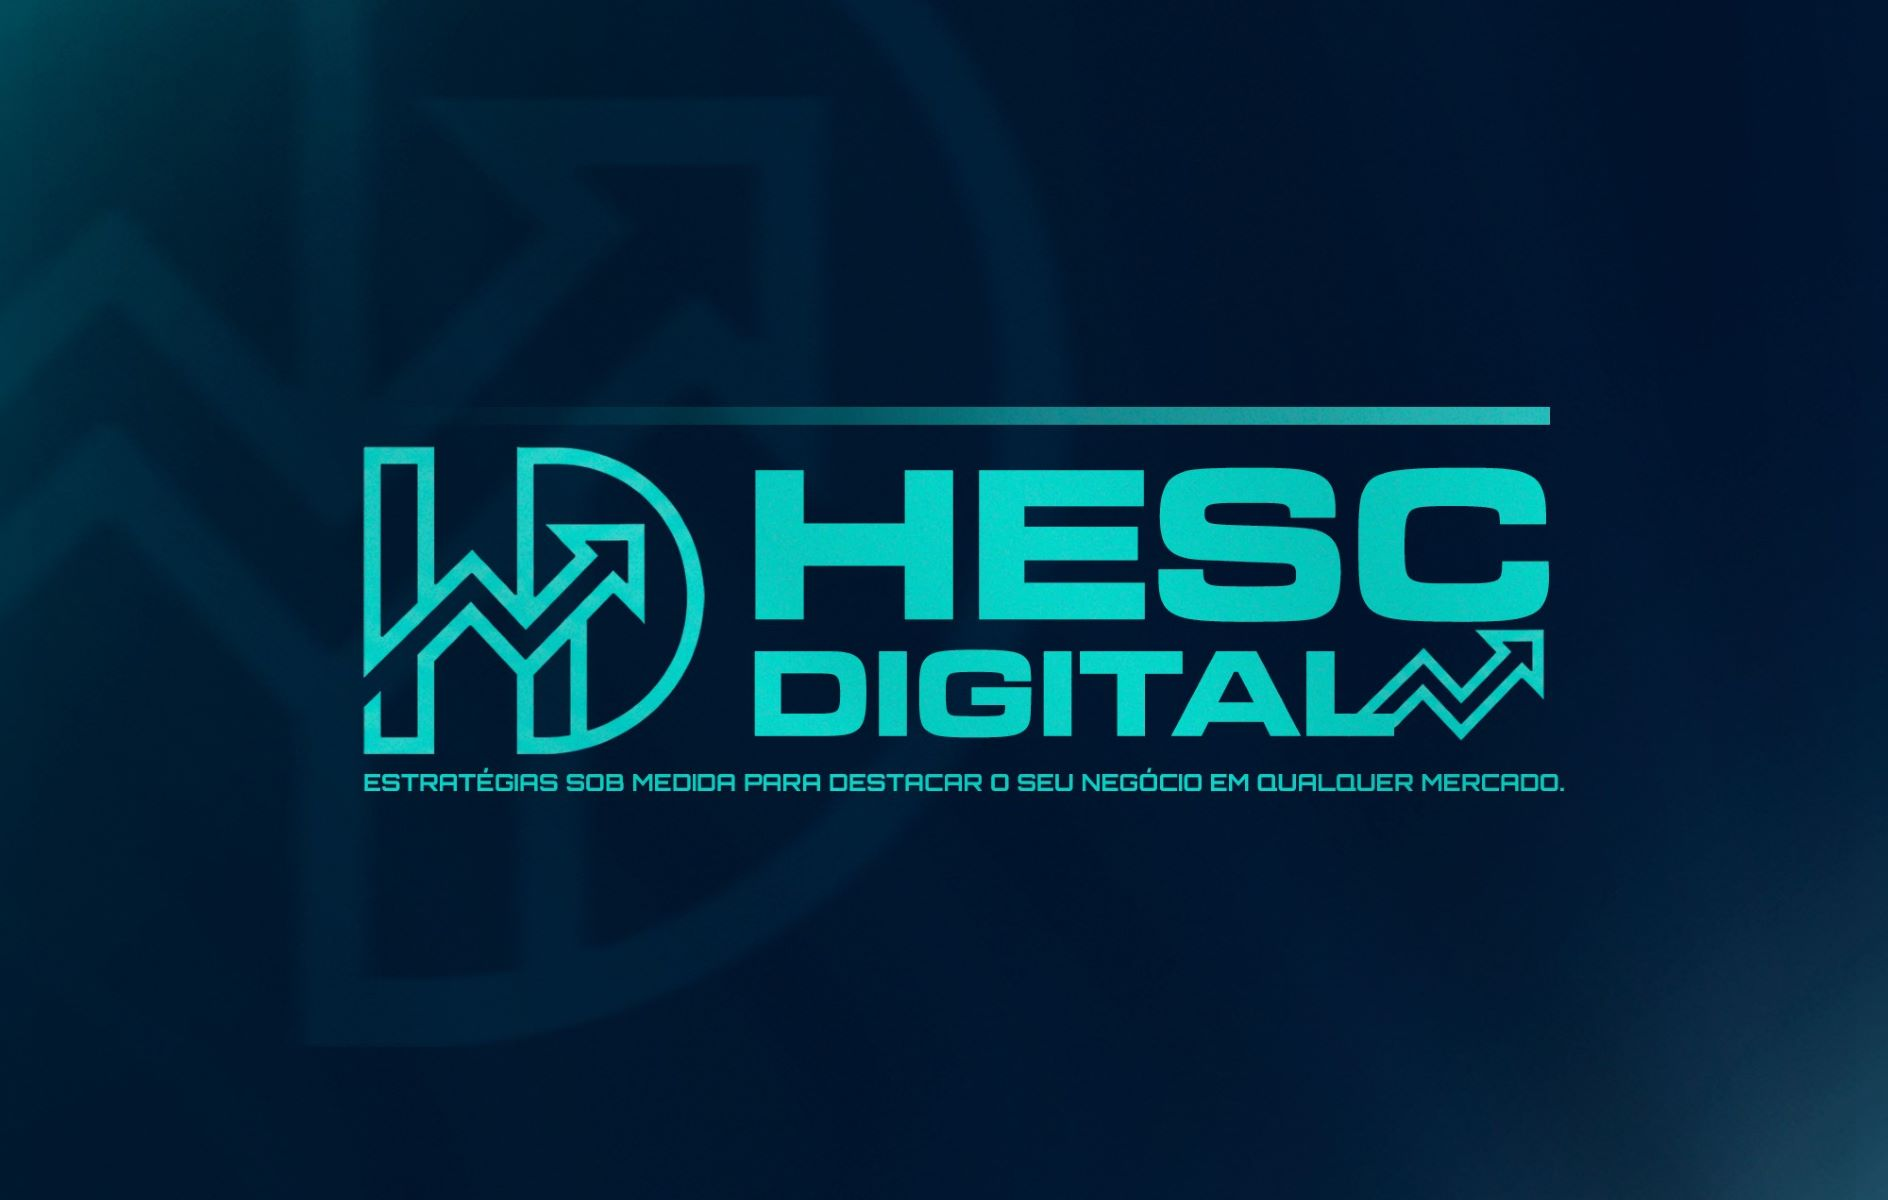
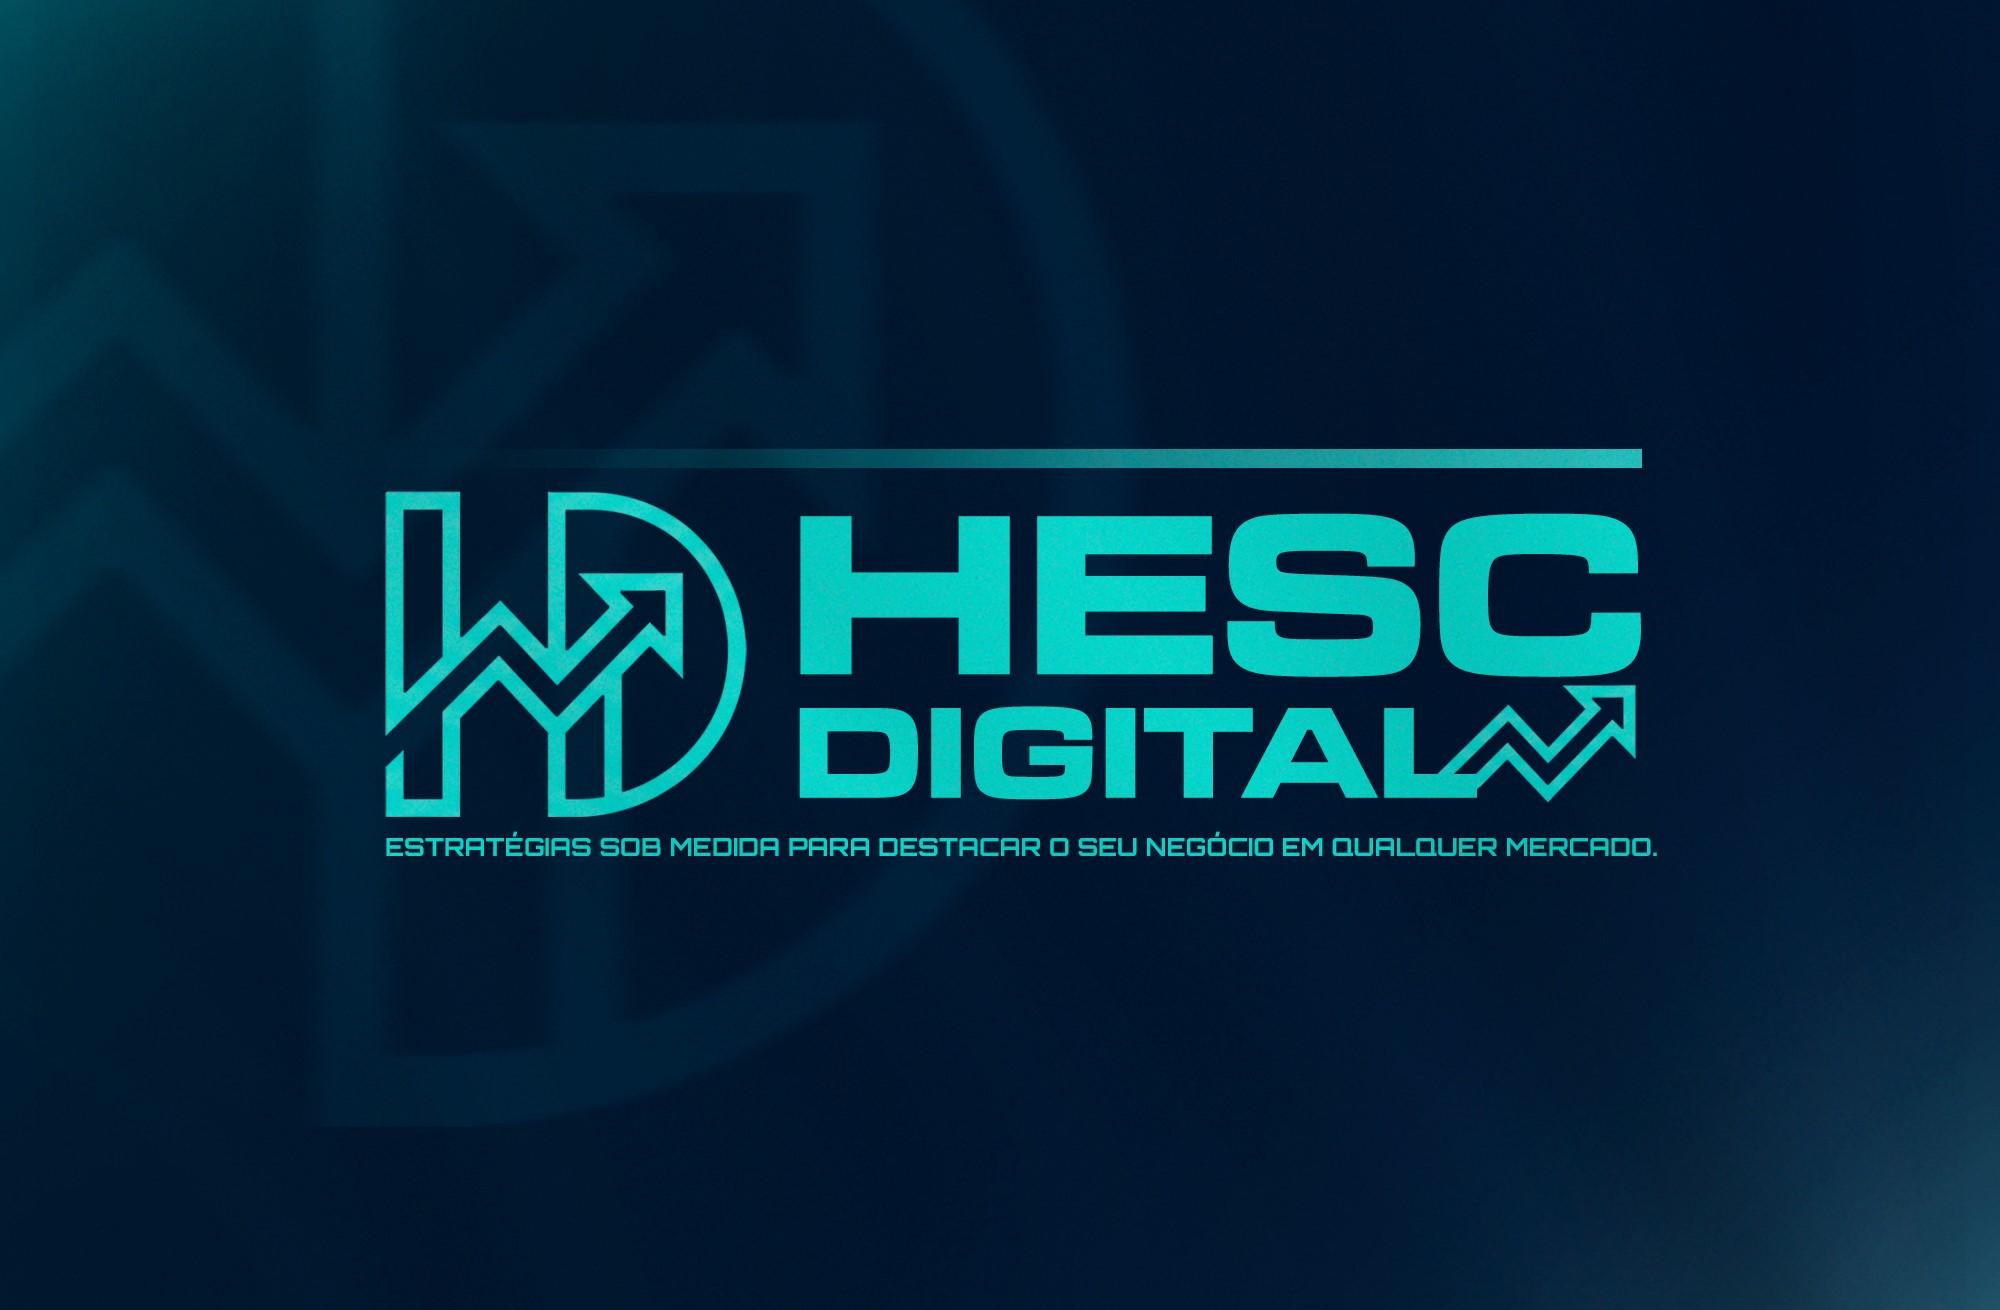
Optimize meta

diff --git a/index.html b/index.html
@@ -7,7 +7,7 @@
     <title data-default>HD Gestao</title>
     <meta property="og:image" content="https://gestao-comercial-eight.vercel.app/image-link.jpg" />
     <meta property="og:image:width" content=1200 />
-    <meta property="og:image:height" content=360 />
+    <meta property="og:image:height" content=630 />
     <meta name="twitter:card" content="summary_large_image" />
     <meta name="twitter:image" content="https://gestao-comercial-eight.vercel.app/image-link.jpg" />
   </head>
